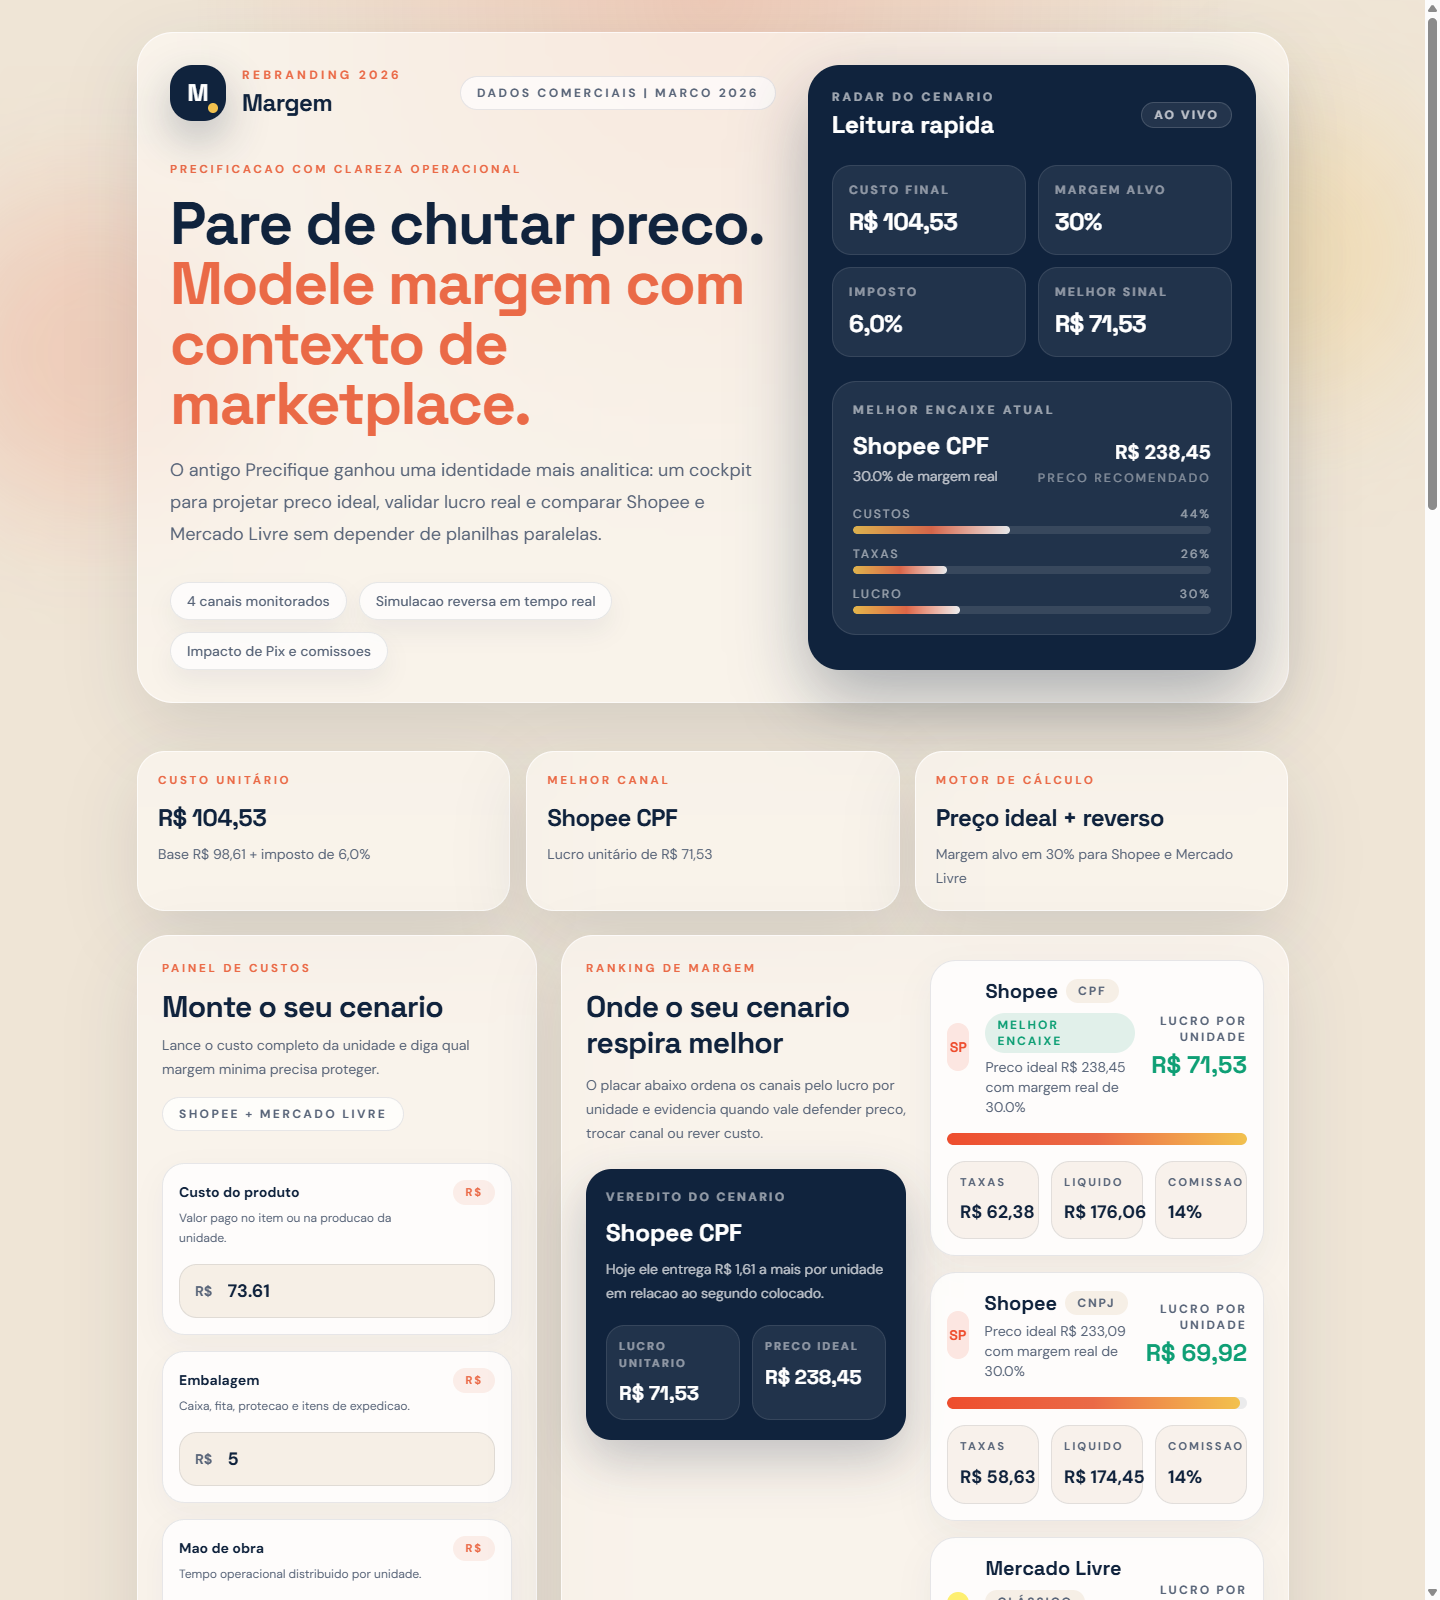
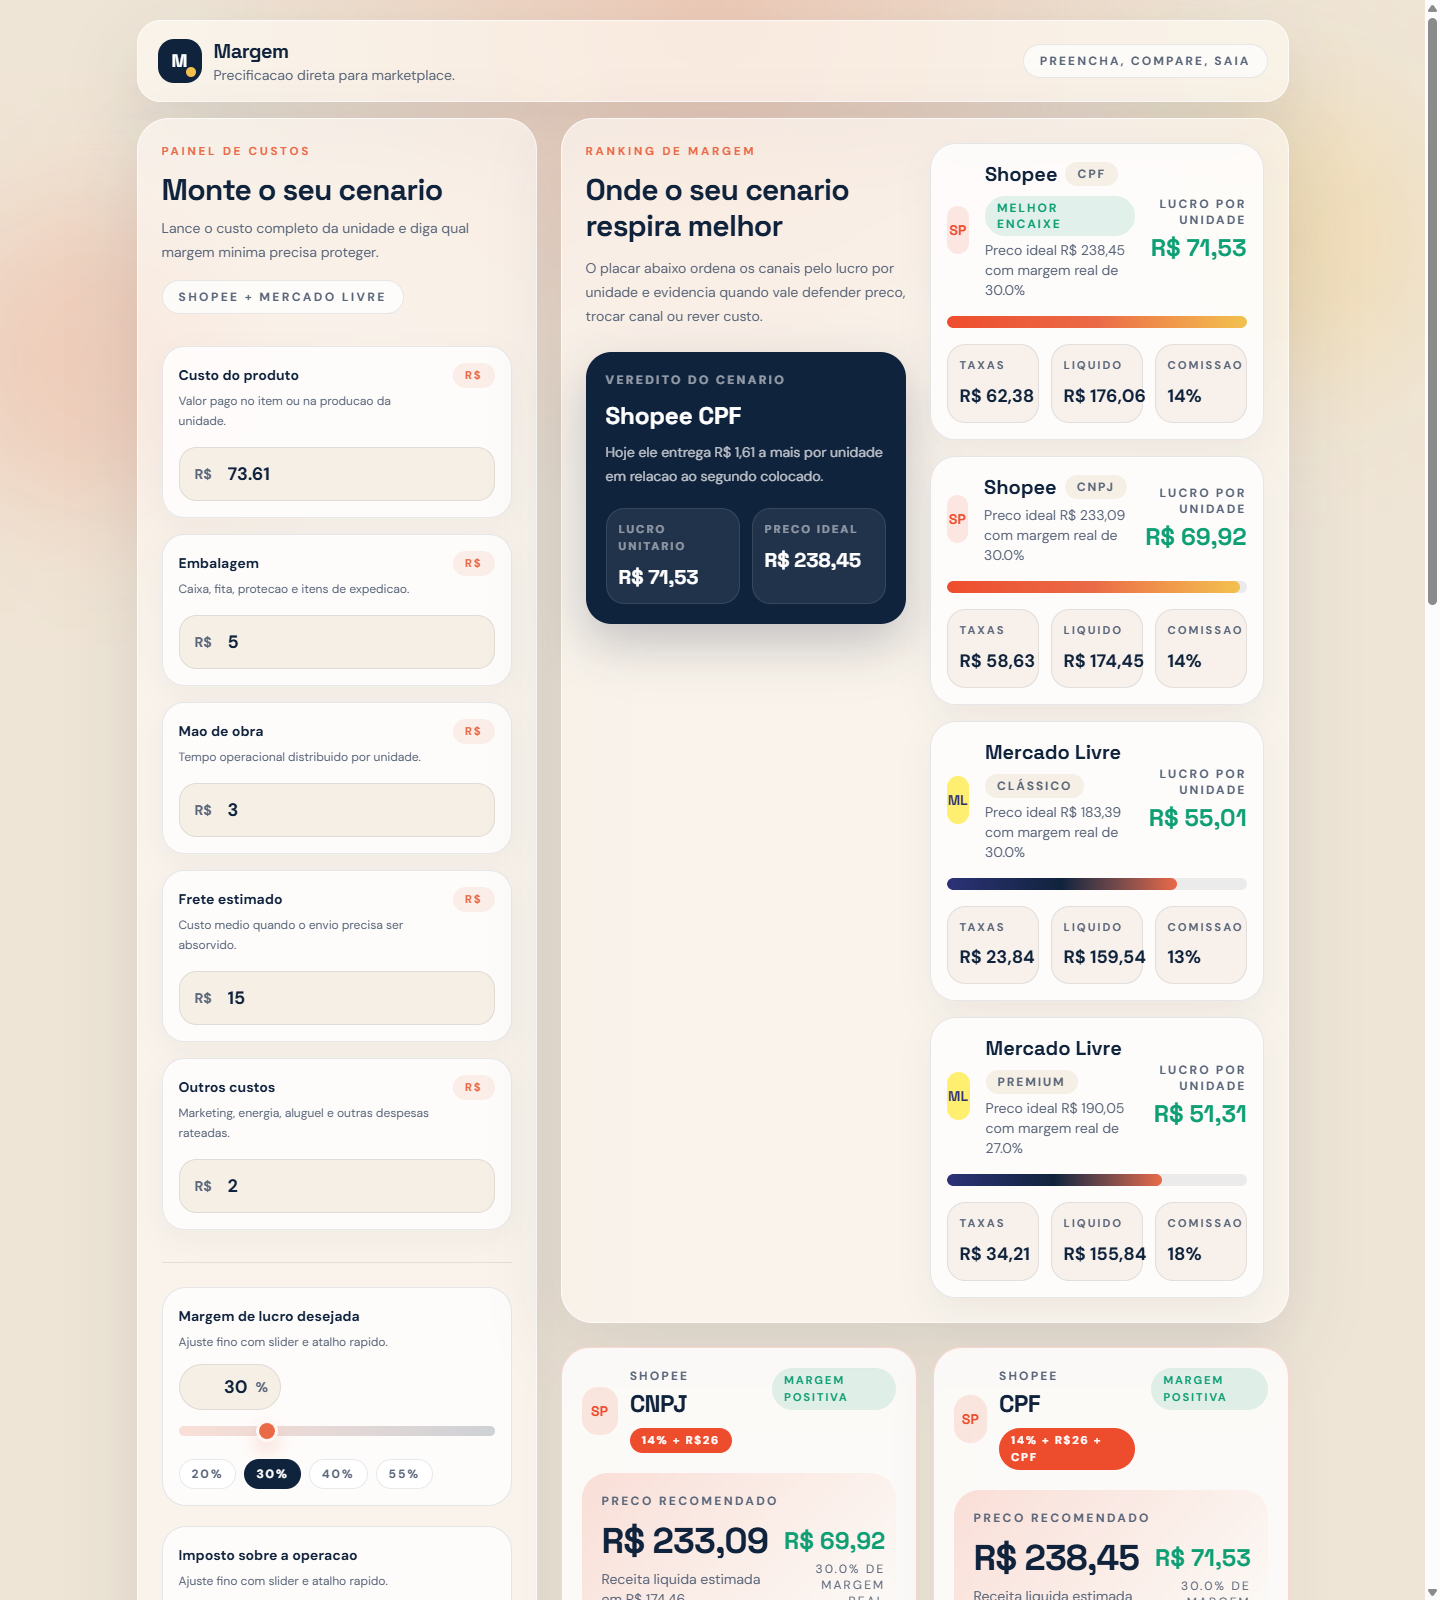
Simplify landing flow

diff --git a/src/components/Header.jsx b/src/components/Header.jsx
@@ -1,171 +1,23 @@
-import { formatBRL } from "../lib/pricing";
-
-function formatPct(value) {
-  return `${value.toFixed(1).replace(".", ",")}%`;
-}
-
-export default function Header({ bestResult, marginPct, taxRate, totalWithTax }) {
-  const bestName = bestResult
-    ? `${bestResult.marketplace.name} ${bestResult.marketplace.badge}`
-    : "Aguardando cenário";
-
-  const profitShare = bestResult
-    ? [
-        {
-          label: "Custos",
-          value: Math.max(0, (bestResult.result.totalCost / bestResult.result.salePrice) * 100),
-        },
-        {
-          label: "Taxas",
-          value: Math.max(0, (bestResult.result.fees.totalFees / bestResult.result.salePrice) * 100),
-        },
-        {
-          label: "Lucro",
-          value: Math.max(0, (bestResult.result.profit / bestResult.result.salePrice) * 100),
-        },
-      ]
-    : [
-        { label: "Custos", value: 42 },
-        { label: "Taxas", value: 18 },
-        { label: "Lucro", value: 30 },
-      ];
-
+export default function Header() {
   return (
-    <header className="px-4 pt-6 pb-10 sm:px-6 sm:pt-8 sm:pb-12">
-      <div className="mx-auto max-w-6xl">
-        <div className="animate-rise rounded-[2.25rem] border border-white/70 bg-surface/80 p-4 shadow-panel backdrop-blur-xl sm:p-6 lg:p-8">
-          <div className="flex flex-col gap-8 lg:flex-row lg:items-stretch">
-            <div className="flex-1">
-              <div className="flex flex-wrap items-center justify-between gap-4">
-                <div className="flex items-center gap-4">
-                  <div className="relative flex h-14 w-14 items-center justify-center rounded-[1.4rem] bg-ink text-white shadow-[0_18px_45px_rgba(16,35,61,0.28)]">
-                    <span className="font-display text-2xl font-bold">M</span>
-                    <span className="absolute bottom-2 right-2 h-2.5 w-2.5 rounded-full bg-sun" />
-                  </div>
-                  <div>
-                    <p className="text-xs font-bold uppercase tracking-[0.28em] text-accent">
-                      Rebranding 2026
-                    </p>
-                    <p className="mt-1 font-display text-2xl font-bold tracking-tight text-ink">
-                      Margem
-                    </p>
-                  </div>
-                </div>
+    <header className="px-4 pt-4 pb-4 sm:px-6 sm:pt-5">
+      <div className="mx-auto flex max-w-6xl items-center justify-between gap-4 rounded-[1.5rem] border border-white/70 bg-surface/82 px-4 py-4 shadow-panel backdrop-blur-xl sm:px-5">
+        <div className="flex items-center gap-3">
+          <div className="relative flex h-11 w-11 items-center justify-center rounded-[1rem] bg-ink text-white">
+            <span className="font-display text-lg font-bold">M</span>
+            <span className="absolute bottom-1.5 right-1.5 h-2.5 w-2.5 rounded-full bg-sun" />
+          </div>
 
-                <div className="inline-flex items-center rounded-full border border-ink/10 bg-white/70 px-4 py-2 text-xs font-semibold uppercase tracking-[0.22em] text-ink-soft">
-                  Dados comerciais | Marco 2026
-                </div>
-              </div>
-
-              <div className="mt-10 max-w-3xl">
-                <p className="text-[0.72rem] font-bold uppercase tracking-[0.24em] text-accent">
-                  Precificacao com clareza operacional
-                </p>
-                <h1 className="mt-4 font-display text-4xl font-bold tracking-tight text-ink sm:text-5xl lg:text-6xl">
-                  Pare de chutar preco.
-                  <span className="block text-accent">Modele margem com contexto de marketplace.</span>
-                </h1>
-                <p className="mt-5 max-w-2xl text-base leading-8 text-ink-soft sm:text-lg">
-                  O antigo Precifique ganhou uma identidade mais analitica: um cockpit para projetar preco
-                  ideal, validar lucro real e comparar Shopee e Mercado Livre sem depender de planilhas
-                  paralelas.
-                </p>
-              </div>
-
-              <div className="mt-8 flex flex-wrap gap-3 text-sm">
-                <Badge>4 canais monitorados</Badge>
-                <Badge>Simulacao reversa em tempo real</Badge>
-                <Badge>Impacto de Pix e comissoes</Badge>
-              </div>
-            </div>
-
-            <div className="w-full max-w-md shrink-0 rounded-[2rem] bg-ink p-6 text-white shadow-[0_28px_70px_rgba(16,35,61,0.34)]">
-              <div className="flex items-center justify-between">
-                <div>
-                  <p className="text-xs font-bold uppercase tracking-[0.24em] text-white/60">
-                    Radar do cenario
-                  </p>
-                  <p className="mt-1 font-display text-2xl font-bold">Leitura rapida</p>
-                </div>
-                <span className="rounded-full border border-white/15 bg-white/8 px-3 py-1 text-xs font-semibold uppercase tracking-[0.18em] text-white/70">
-                  Ao vivo
-                </span>
-              </div>
-
-              <div className="mt-6 grid grid-cols-2 gap-3">
-                <MetricCard label="Custo final" value={totalWithTax > 0 ? formatBRL(totalWithTax) : "R$ 0,00"} />
-                <MetricCard label="Margem alvo" value={`${marginPct}%`} />
-                <MetricCard label="Imposto" value={formatPct(taxRate)} />
-                <MetricCard
-                  label="Melhor sinal"
-                  value={bestResult ? formatBRL(bestResult.result.profit) : "Sem leitura"}
-                />
-              </div>
-
-              <div className="mt-6 rounded-[1.5rem] border border-white/10 bg-white/7 p-5">
-                <p className="text-xs font-bold uppercase tracking-[0.24em] text-white/55">
-                  Melhor encaixe atual
-                </p>
-                <div className="mt-3 flex items-end justify-between gap-4">
-                  <div>
-                    <p className="font-display text-2xl font-bold">{bestName}</p>
-                    <p className="mt-1 text-sm text-white/70">
-                      {bestResult
-                        ? `${bestResult.result.actualMargin.toFixed(1)}% de margem real`
-                        : "Preencha os custos para abrir o ranking"}
-                    </p>
-                  </div>
-                  <div className="text-right">
-                    <p className="text-xl font-semibold">
-                      {bestResult ? formatBRL(bestResult.result.salePrice) : "R$ 0,00"}
-                    </p>
-                    <p className="mt-1 text-xs uppercase tracking-[0.2em] text-white/45">
-                      preco recomendado
-                    </p>
-                  </div>
-                </div>
-
-                <div className="mt-5 space-y-3">
-                  {profitShare.map((item, index) => (
-                    <div key={item.label}>
-                      <div className="mb-1 flex items-center justify-between text-xs uppercase tracking-[0.18em] text-white/55">
-                        <span>{item.label}</span>
-                        <span>{item.value.toFixed(0)}%</span>
-                      </div>
-                      <div className="h-2 overflow-hidden rounded-full bg-white/10">
-                        <div
-                          className="h-full rounded-full bg-gradient-to-r from-sun via-accent to-white animate-shimmer"
-                          style={{
-                            width: `${Math.min(100, Math.max(12, item.value))}%`,
-                            animationDelay: `${index * 120}ms`,
-                          }}
-                        />
-                      </div>
-                    </div>
-                  ))}
-                </div>
-              </div>
-            </div>
+          <div>
+            <p className="font-display text-xl font-bold tracking-tight text-ink">Margem</p>
+            <p className="text-sm text-ink-soft">Precificacao direta para marketplace.</p>
           </div>
         </div>
+
+        <span className="hidden rounded-full border border-ink/10 bg-white/75 px-4 py-2 text-xs font-semibold uppercase tracking-[0.18em] text-ink-soft sm:inline-flex">
+          Preencha, compare, saia
+        </span>
       </div>
     </header>
-  );
-}
-
-function Badge({ children }) {
-  return (
-    <span className="inline-flex items-center rounded-full border border-ink/10 bg-white/75 px-4 py-2 text-sm font-medium text-ink-soft shadow-[0_12px_24px_rgba(16,35,61,0.06)]">
-      {children}
-    </span>
-  );
-}
-
-function MetricCard({ label, value }) {
-  return (
-    <div className="rounded-[1.2rem] border border-white/10 bg-white/7 p-4">
-      <p className="text-xs font-semibold uppercase tracking-[0.18em] text-white/50">{label}</p>
-      <p className="mt-2 font-display text-2xl font-bold tracking-tight">{value}</p>
-    </div>
   );
 }

diff --git a/src/App.jsx b/src/App.jsx
@@ -1,6 +1,6 @@
 import { useMemo, useState } from "react";
 import { MARKETPLACES } from "./lib/marketplaces";
-import { calcIdealPrice, formatBRL } from "./lib/pricing";
+import { calcIdealPrice } from "./lib/pricing";
 import Header from "./components/Header";
 import Footer from "./components/Footer";
 import CostForm from "./components/CostForm";
@@ -33,45 +33,6 @@ export default function App() {
     }));
   }, [costs, costsWithTax, marginPct]);
 
-  const totalBeforeTax = useMemo(
-    () => Object.values(costs).reduce((sum, value) => sum + value, 0),
-    [costs],
-  );
-
-  const totalWithTax = useMemo(
-    () => totalBeforeTax * (1 + taxRate / 100),
-    [taxRate, totalBeforeTax],
-  );
-
-  const bestResult = useMemo(() => {
-    if (!results.length) return null;
-    return [...results].sort((a, b) => b.result.profit - a.result.profit)[0];
-  }, [results]);
-
-  const scenarioCards = [
-    {
-      label: "Custo unitário",
-      value: totalBeforeTax > 0 ? formatBRL(totalWithTax) : "Nenhum cenário",
-      detail: totalBeforeTax > 0
-        ? `Base ${formatBRL(totalBeforeTax)} + imposto de ${taxRate.toFixed(1).replace(".", ",")}%`
-        : "Preencha seus custos para abrir a análise",
-    },
-    {
-      label: "Melhor canal",
-      value: bestResult
-        ? `${bestResult.marketplace.name} ${bestResult.marketplace.badge}`
-        : "Aguardando dados",
-      detail: bestResult
-        ? `Lucro unitário de ${formatBRL(bestResult.result.profit)}`
-        : "O ranking aparece assim que existir um custo base",
-    },
-    {
-      label: "Motor de cálculo",
-      value: "Preço ideal + reverso",
-      detail: `Margem alvo em ${marginPct}% para Shopee e Mercado Livre`,
-    },
-  ];
-
   return (
     <div className="relative min-h-screen overflow-hidden bg-bg-page text-ink">
       <div className="pointer-events-none absolute inset-0">
@@ -81,33 +42,10 @@ export default function App() {
       </div>
 
       <div className="relative flex min-h-screen flex-col">
-        <Header
-          bestResult={bestResult}
-          marginPct={marginPct}
-          taxRate={taxRate}
-          totalWithTax={totalWithTax}
-        />
+        <Header />
 
         <main className="flex-1 px-4 pb-12 sm:px-6">
           <div className="mx-auto flex w-full max-w-6xl flex-col gap-6">
-            <section className="grid gap-4 md:grid-cols-3">
-              {scenarioCards.map((card, index) => (
-                <div
-                  key={card.label}
-                  className="animate-rise rounded-[1.75rem] border border-white/70 bg-surface/80 p-5 shadow-panel backdrop-blur-xl"
-                  style={{ animationDelay: `${index * 100}ms` }}
-                >
-                  <p className="text-[0.72rem] font-bold uppercase tracking-[0.24em] text-accent">
-                    {card.label}
-                  </p>
-                  <h2 className="mt-3 font-display text-2xl font-bold tracking-tight text-ink">
-                    {card.value}
-                  </h2>
-                  <p className="mt-2 text-sm leading-6 text-ink-soft">{card.detail}</p>
-                </div>
-              ))}
-            </section>
-
             <div className="grid grid-cols-1 gap-6 lg:grid-cols-[400px_minmax(0,1fr)]">
               <aside className="lg:sticky lg:top-6 lg:self-start">
                 <CostForm
@@ -152,52 +90,18 @@ export default function App() {
 }
 
 function EmptyState() {
-  const steps = [
-    {
-      step: "01",
-      title: "Desenhe o custo real",
-      text: "Comece pelo custo do produto e acrescente embalagem, mão de obra, frete e despesas rateadas.",
-    },
-    {
-      step: "02",
-      title: "Defina a margem de defesa",
-      text: "Escolha a margem mínima que precisa proteger para não aceitar vendas que parecem boas, mas drenam caixa.",
-    },
-    {
-      step: "03",
-      title: "Compare canais com contexto",
-      text: "O ranking mostra onde sobra mais lucro por unidade e o simulador reverso valida qualquer preço já praticado.",
-    },
-  ];
-
   return (
     <section className="animate-rise rounded-[2rem] border border-dashed border-ink/15 bg-surface/75 p-6 shadow-panel backdrop-blur-xl sm:p-8">
       <p className="text-[0.72rem] font-bold uppercase tracking-[0.24em] text-accent">
-        Cockpit pronto para uso
+        Resultado
       </p>
       <h2 className="mt-3 max-w-2xl font-display text-3xl font-bold tracking-tight text-ink sm:text-4xl">
-        Monte um cenário para liberar o ranking de marketplaces.
+        Preencha os custos para ver a precificacao.
       </h2>
       <p className="mt-4 max-w-2xl text-base leading-7 text-ink-soft">
-        O rebranding transformou o antigo Precifique em um painel mais analítico. Falta apenas um custo base
-        para destravar o comparativo, os cards de lucro e o simulador reverso.
+        Assim que existir um cenario, mostramos o melhor canal, o preco ideal por marketplace e o simulador
+        reverso sem etapas extras.
       </p>
-
-      <div className="mt-8 grid gap-4 md:grid-cols-3">
-        {steps.map((item, index) => (
-          <div
-            key={item.step}
-            className="rounded-[1.6rem] border border-white/70 bg-white/75 p-5"
-            style={{ animationDelay: `${index * 120}ms` }}
-          >
-            <span className="inline-flex h-10 w-10 items-center justify-center rounded-full bg-accent/12 font-display text-sm font-bold text-accent">
-              {item.step}
-            </span>
-            <h3 className="mt-4 font-display text-xl font-bold text-ink">{item.title}</h3>
-            <p className="mt-2 text-sm leading-6 text-ink-soft">{item.text}</p>
-          </div>
-        ))}
-      </div>
     </section>
   );
 }
